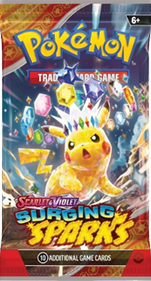
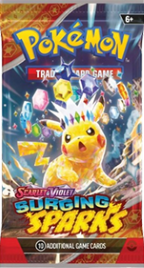
added in the colour background to the packs included so far

diff --git a/style.css b/style.css
@@ -36,14 +36,20 @@ body{
     gap: 40px;
     padding: 20px;
     margin: auto;
-    margin-top: 80px;
+    margin-top: 60px;
     align-items: center;
     text-align: center;
-    border: 3px solid #400a58;
+}
+
+.pack {
+    background-color: #6b3284;
+    img {
+        padding-top: 20px;
+    }
 }
 
 .pack_name {
     font-family: 'pokemonsolid', cursive;
-    color: #400a58;
+    color: azure;
     font-size: 14px;
 }
